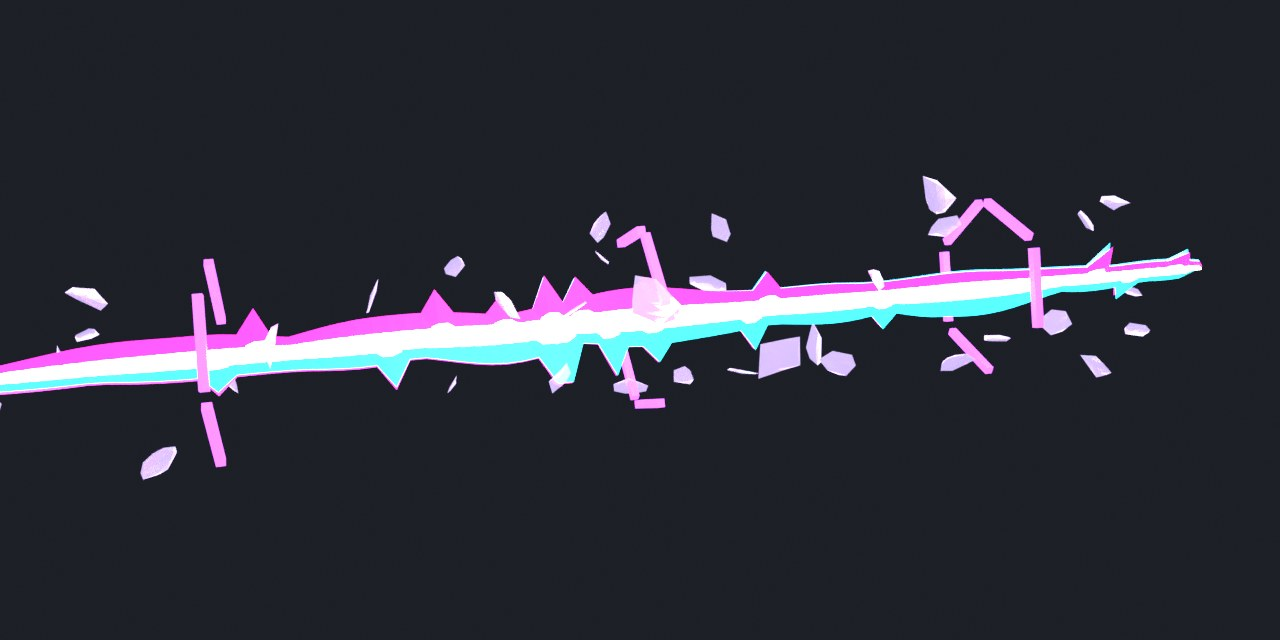
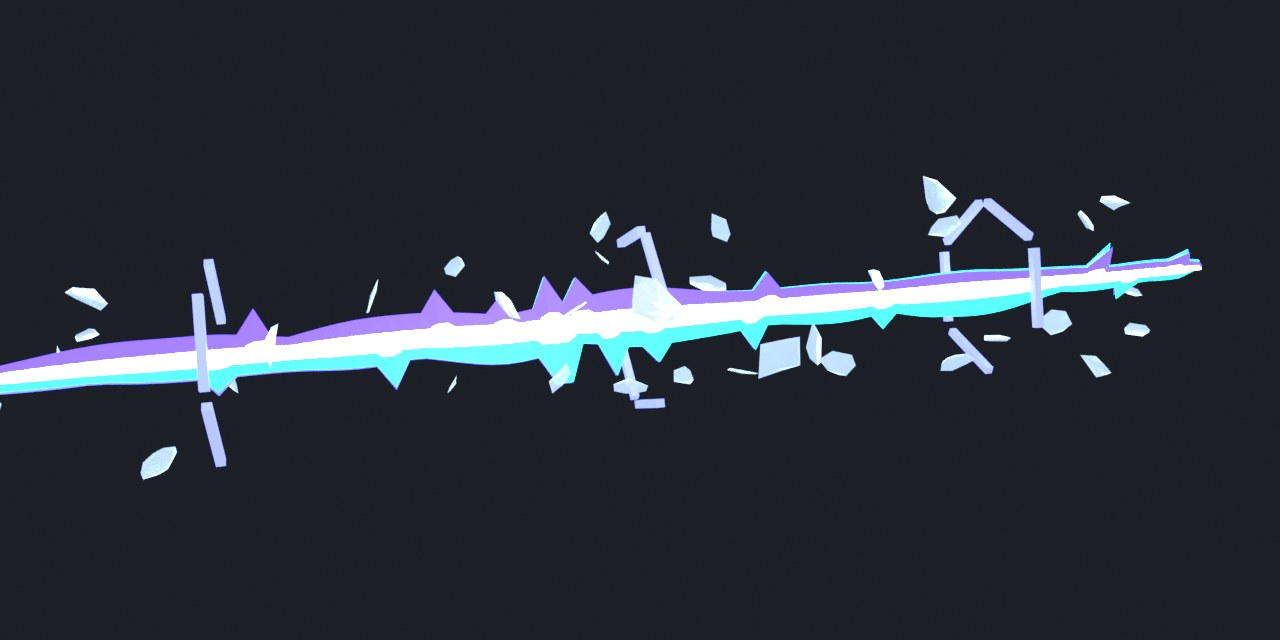
Recolour the Rift beam from pink/magenta to indigo and cyan
The magenta edge becomes deep indigo, and the tear, glass fragments and
gates lose their pink tint. The part keeps the name EdgeMagenta so models
already imported into Studio only need the updated ElementBeams module.

Claude-Session: https://claude.ai/code/session_013uHW6RqHYn7kEkLfem6E9D

diff --git a/tools/build_element_beams.py b/tools/build_element_beams.py
@@ -441,7 +441,7 @@ def build_void(col):
 
 
 def build_rift(col):
-    """A tear in space: a jagged twisting crack with chromatic magenta/cyan edges, broken glass and gate frames."""
+    """A tear in space: a jagged twisting crack with chromatic indigo/cyan edges, broken glass and gate frames."""
     rng = random.Random(66)
     steps = 90
     pts = [axis_point(LENGTH * i / steps) for i in range(steps + 1)]
@@ -463,11 +463,12 @@ def build_rift(col):
 
     bm = bmesh.new()
     sweep(bm, pts, tear_profiles(0.75, 0.06, 0))
-    finish(bm, "Tear", col, material("RiftTear", rgb(255, 235, 250), 7), smooth=False)
+    finish(bm, "Tear", col, material("RiftTear", rgb(235, 250, 255), 7), smooth=False)
 
     bm = bmesh.new()
     sweep(bm, pts, tear_profiles(1.0, 0.03, 0.06))
-    finish(bm, "EdgeMagenta", col, material("RiftMagenta", rgb(255, 50, 200), 3.5), smooth=False)
+    # Still named EdgeMagenta (now indigo) so already-imported models keep working.
+    finish(bm, "EdgeMagenta", col, material("RiftIndigo", rgb(90, 70, 255), 3.5), smooth=False)
 
     bm = bmesh.new()
     sweep(bm, pts, tear_profiles(1.0, 0.03, -0.06))
@@ -479,7 +480,7 @@ def build_rift(col):
         a = rng.uniform(0, 2 * math.pi)
         r = rng.uniform(0.9, 2.1)
         rock(bm, rng, Vector((r * math.cos(a), y, r * math.sin(a))), rng.uniform(0.15, 0.4), squash=(1.4, 1.0, 0.12), jitter=0.5)
-    finish(bm, "Fragments", col, material("RiftGlass", rgb(220, 200, 255), 0.5, glass=True), smooth=False)
+    finish(bm, "Fragments", col, material("RiftGlass", rgb(200, 225, 255), 0.5, glass=True), smooth=False)
 
     bm = bmesh.new()
     for k, y in enumerate((5, 12, 19)):
@@ -492,7 +493,7 @@ def build_rift(col):
             gap = (b - a) * 0.08
             sq = [(0.07, 0.07), (-0.07, 0.07), (-0.07, -0.07), (0.07, -0.07)]
             sweep(bm, [a + gap, b - gap], [sq, sq])
-    finish(bm, "Gates", col, material("RiftGate", rgb(200, 90, 255), 3), smooth=False)
+    finish(bm, "Gates", col, material("RiftGate", rgb(110, 120, 255), 3), smooth=False)
 
 
 def build_wind(col):

diff --git a/ElementBeams/README.md b/ElementBeams/README.md
@@ -11,7 +11,7 @@ One Blender-made 3D beam per Eternium element, plus a module that drops them int
 | **Electric** | Two intertwined jagged bolts, forking branches and a pulsing plasma sheath | Bolt, Branches, Sheath |
 | **Nature** | Three thorned vines braiding around a living green core, with leaves, curling tendrils and blossoms | Core, Vines, Leaves, Blossoms |
 | **Void** | A light-eating black core inside a violet event horizon, tendrils spiralling inward, orbit rings and debris | Core, Horizon, Tendrils, Rings, Debris |
-| **Rift** | A twisting tear in space with offset magenta/cyan edges, broken-glass fragments and cracked hexagonal gates | Tear, EdgeMagenta, EdgeCyan, Fragments, Gates |
+| **Rift** | A twisting tear in space with offset indigo/cyan edges, broken-glass fragments and cracked hexagonal gates | Tear, EdgeMagenta, EdgeCyan, Fragments, Gates |
 | **Wind** | A tightly wrung three-strand core of air, airflow streaks spiralling round it, translucent shockwave rings and crescent wind blades | Core, Streams, Rings, Blades |
 
 Every model is 24 units long and stays well under Roblox's 20k-triangle limit per part.
